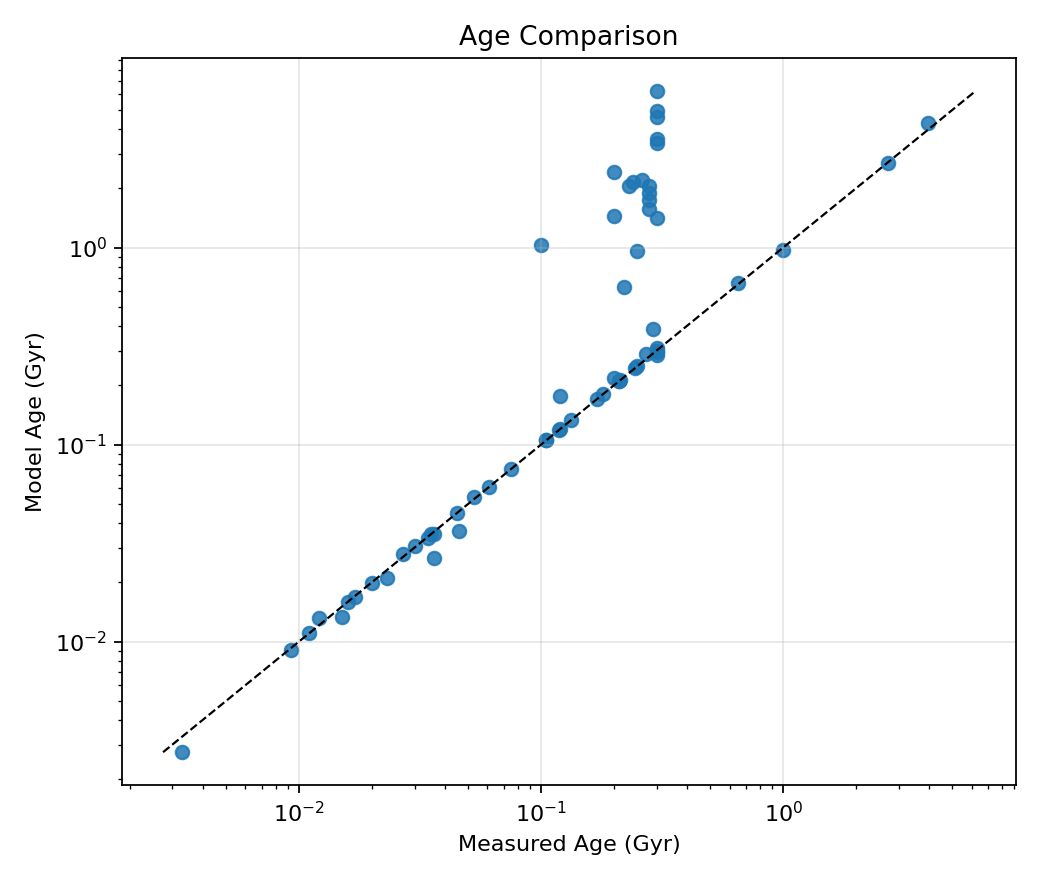
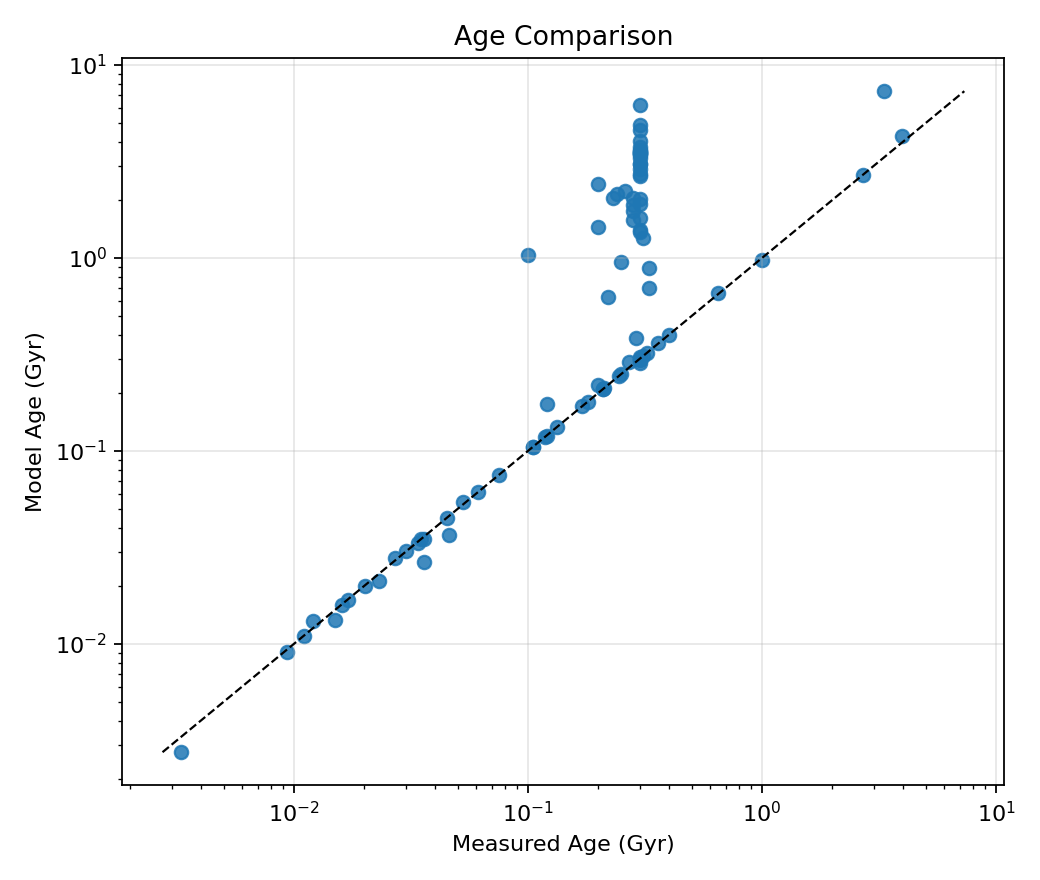
interpolator application

diff --git a/the_modelers/the_builders/interpolator_code/interpolator_testing.py b/the_modelers/the_builders/interpolator_code/interpolator_testing.py
@@ -2,7 +2,7 @@ from pathlib import Path
 import argparse
 
 from interpolator_plotting import make_age_comparison_plot_from_csv
-from the_modelers.the_builders.interpolator_code.interpolator_values import run_stars_and_save_values
+from interpolator_values import run_stars_and_save_values
 
 
 def run_stars(
@@ -69,12 +69,12 @@ if __name__ == "__main__":
         run_generate_csv = True
         run_plot = True
 
-    repo_root = Path(__file__).resolve().parents[2]
+    repo_root = Path(__file__).resolve().parents[3]
     mega_csv = repo_root / "ASTR502_Mega_Target_List.csv"
     phot_csv = repo_root / "ASTR502_Master_Photometry_List.csv"
-    out_dir = Path(__file__).resolve().parent / "interpolator_outputs"
+    out_dir = Path(__file__).resolve().parents[1] / "interpolator_outputs"
 
-    stars_to_run = ["Kepler-254"]
+    stars_to_run = ["HATS-55", "TOI-5027", "Kepler-1817", "Kepler-259", "Kepler-375"]
 
     results_csv = args.results_csv
 

diff --git a/the_modelers/the_builders/interpolator_code/interpolator_values.py b/the_modelers/the_builders/interpolator_code/interpolator_values.py
@@ -4,7 +4,7 @@ from typing import Iterable
 import numpy as np
 import pandas as pd
 
-from the_modelers.the_builders.interpolator_code.the_interpolator import fit_best_params, get_model_mag, load_catalogs
+from the_interpolator import fit_best_params, get_model_mag, load_catalogs
 
 # Observed photometry columns in ASTR502_Master_Photometry_List.csv
 OBS_MAP = {
